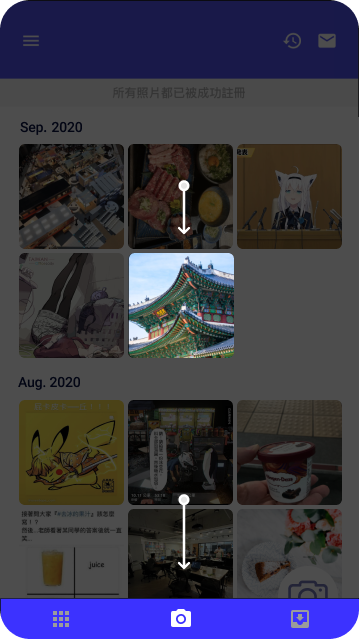
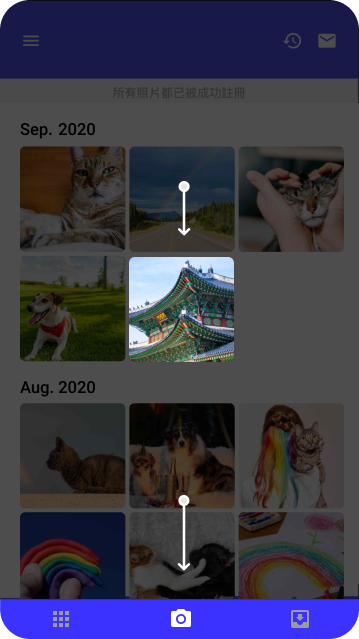
UI fix tutorial ＆ Replace the tutorial image (#527)
* Replace the tutorial image

* Fix tutorial page styling for long iPhone

* Fix tutorial page styling for long iPhone

diff --git a/src/app/features/home/onboarding/tutorial/tutorial.page.scss b/src/app/features/home/onboarding/tutorial/tutorial.page.scss
@@ -8,8 +8,8 @@ ion-content {
       height: 100vh;
 
       svg {
-        padding-top: 5vh;
-        padding-bottom: 5vh;
+        padding-top: 8vh;
+        padding-bottom: calc(12vh + env(safe-area-inset-bottom));
       }
 
       button {
@@ -18,6 +18,7 @@ ion-content {
         right: 20px;
         color: white;
         font-size: 20px;
+        padding-bottom: calc(5vh + env(safe-area-inset-bottom));
       }
     }
   }
